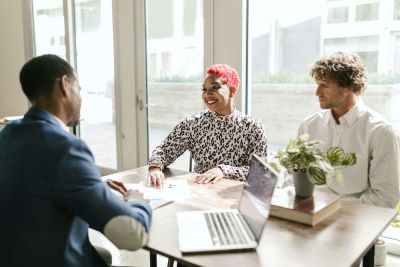
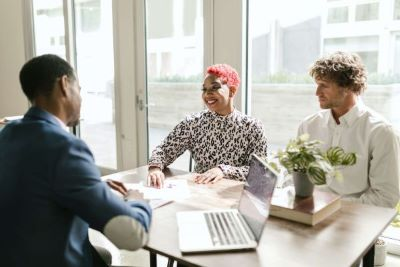
picture cheked

Changed region(s): [[0.39, 0.4195, 0.66, 0.6592], [0.57, 0.2996, 0.6, 0.3296]]

diff --git a/chamber/index.html b/chamber/index.html
@@ -35,10 +35,9 @@
         <p id="banner"></p>
         <div class="hero">
             <picture>
-                <source srcset="images/wdd230-org400.jpg" media="(max-width: 599px)">
                 <source srcset="images/wdd230-org600.jpg" media="(min-width: 600px) and (max-width: 899px)">
                 <source srcset="images/wdd230-org800.jpg" media="(min-width: 900px)">
-                <img class="hero-img" alt="hero img" src="images/wdd230-org.jpg">
+                <img class="hero-img" alt="hero img" src="images/wdd230-org400.jpg">
             </picture>
             <div class="hero-button">Join The Chamber</div>
         </div>
